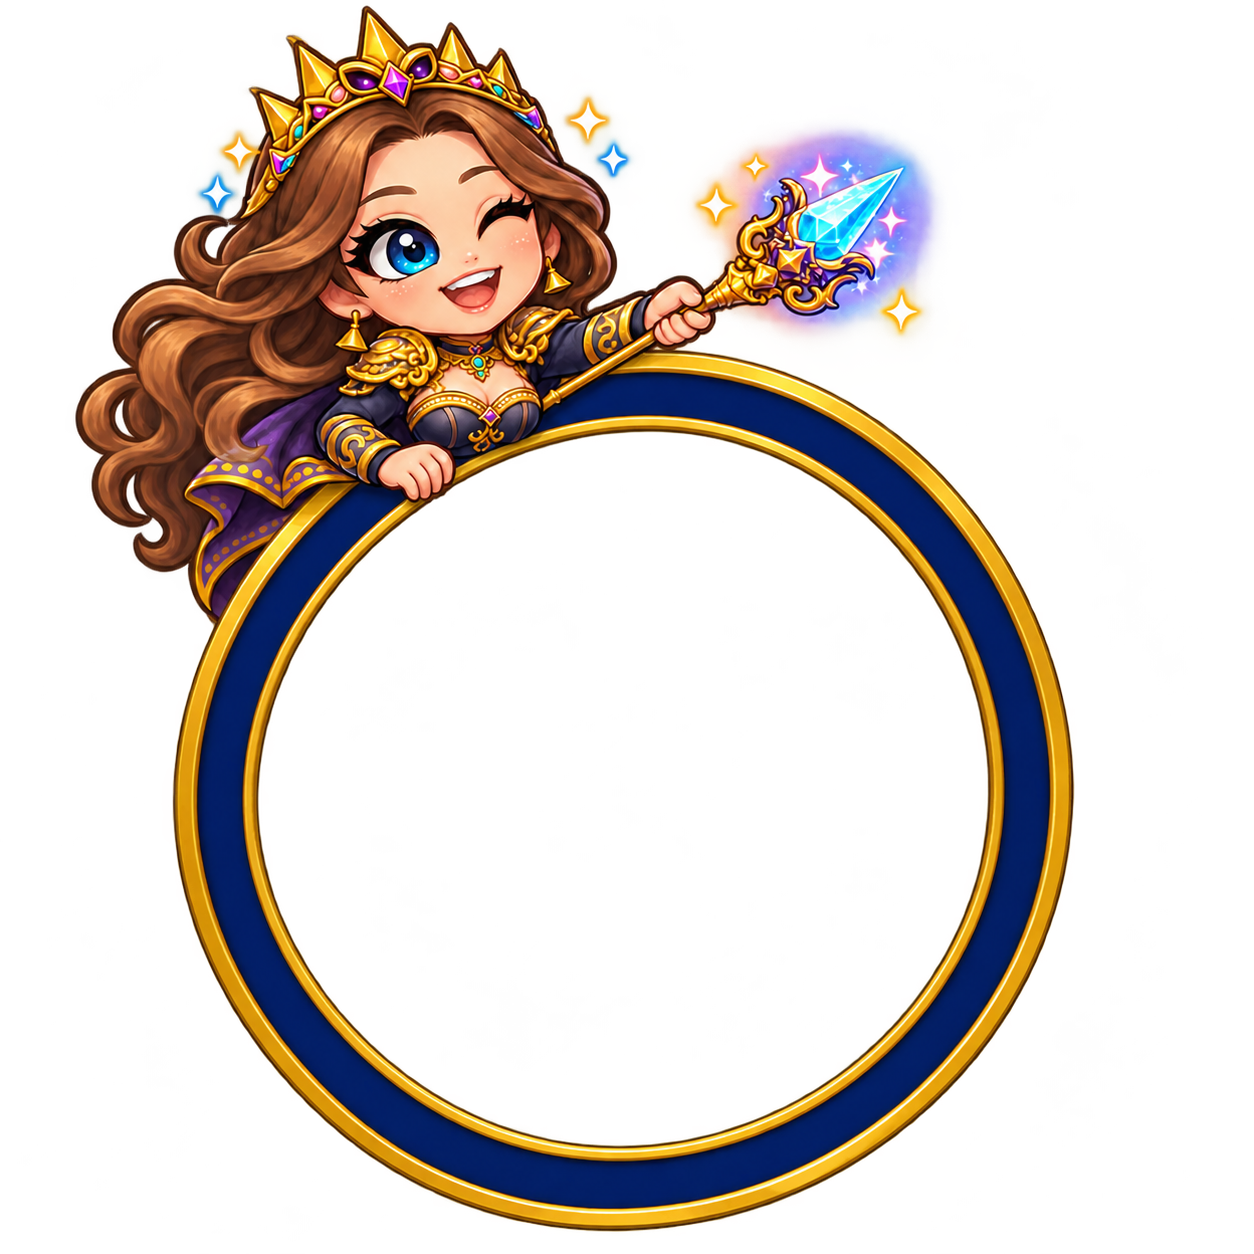
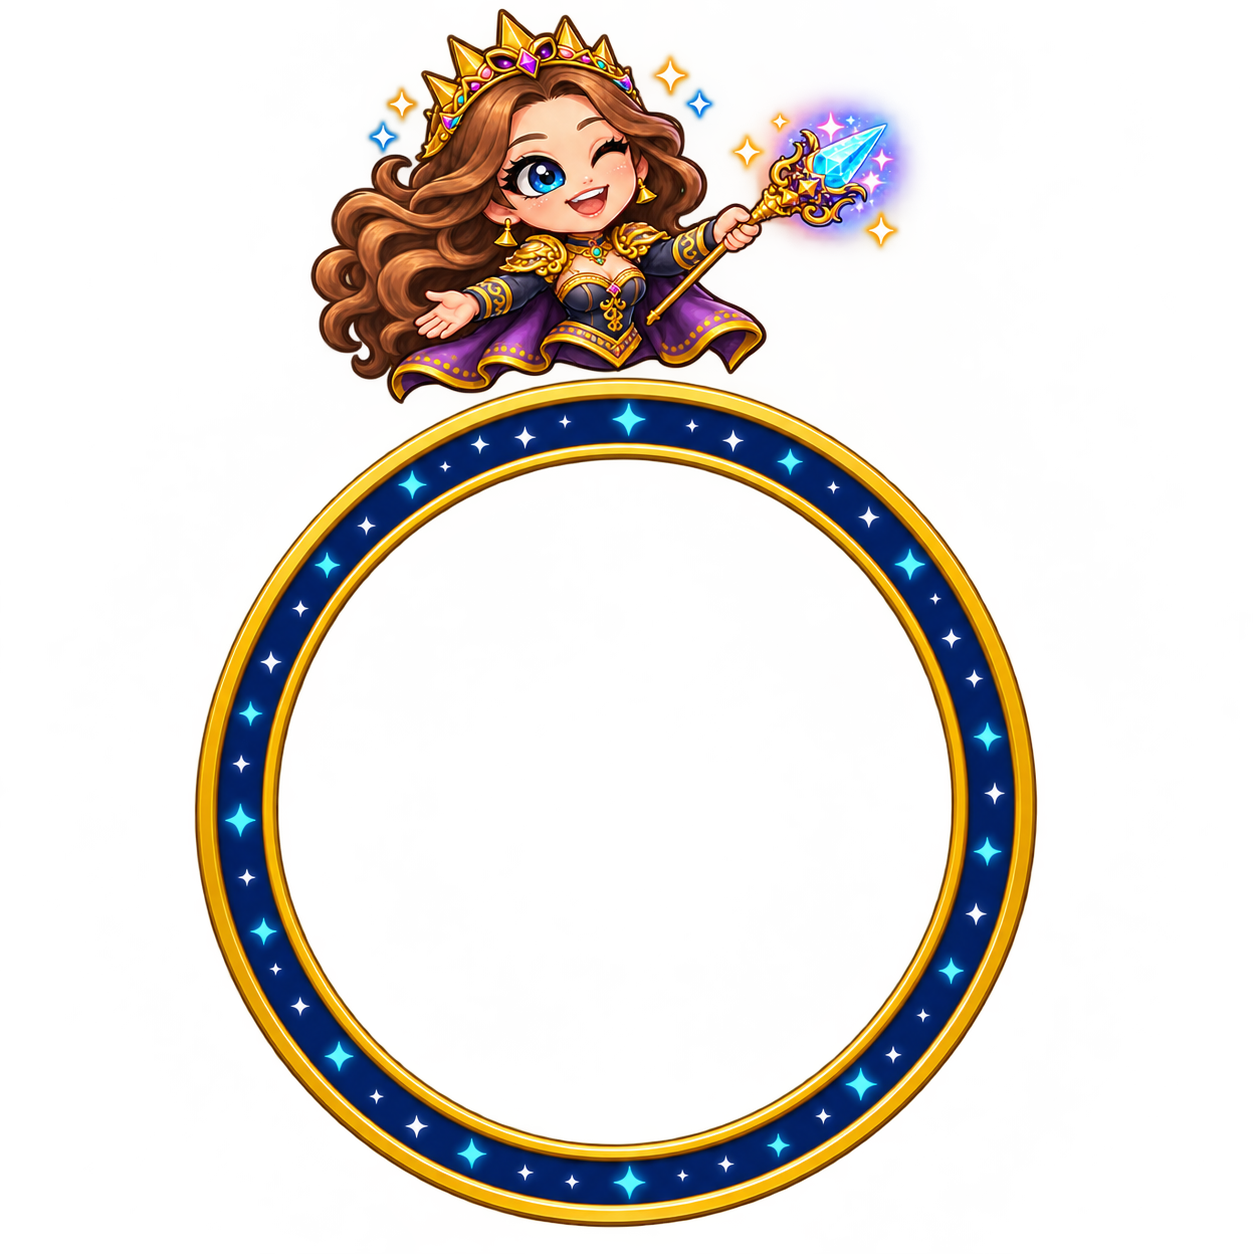
Restore starry Goddess ring and expose cancellable operation progress (0.5.1.426)

Changed region(s): [[0.0622, 0.0, 0.8708, 0.9952]]

diff --git a/src/WorkIndicator.cs b/src/WorkIndicator.cs
@@ -32,6 +32,20 @@ public sealed partial class Plugin
         }
         StopIndependentWalk(IndicatorStopReason);
     }
+    private void StopIndicatorLogin()
+    {
+        loginMenuReturn.Stop();
+        if(titleLoginProbe.Active)StopTitleLoginCheck(IndicatorStopReason);
+        CancelAssignedLogin(IndicatorStopReason);
+        characterSwitchUntil=default;characterSwitchTarget=null;
+        characterTravelStatus=IndicatorStopReason+" An already accepted login may still finish.";
+    }
+    private void StopIndicatorBring()
+    {
+        bringTrip=null;StopIndicatorLogin();StopIndicatorTravel();
+        try{Pi.GetIpcSubscriber<object>("Lifestream.Abort").InvokeAction();}catch{}
+        bringMessage=IndicatorStopReason;
+    }
     private IndicatorWork? CurrentIndicatorWork()
     {
         if(gardenTendRoute!=null||gardenCareRun?.Running==true||gardenAutoPlantPlan!=null||gardenHousePlant!=null||gardenHouseHarvest!=null){
@@ -42,21 +56,30 @@ public sealed partial class Plugin
         if(deliveryRun.Length>0&&(deliveryReturning||delivery is {Paused:false,Stopped:false}&&delivery.Status is not ("paused" or "complete" or "stopped")))
             return new("Delivery",deliveryNotice,"…",StopIndicatorDelivery);
         if(eventAccountActive)return new("Adventure",eventAccountStatus,$"{eventAccountCompleted}/{eventAccountCharacters.Length}",()=>StopEventAccount(IndicatorStopReason));
+        if(questChainActive)return new("Quest routine",questChainStatus,"…",()=>StopQuestChain(IndicatorStopReason));
         if(nativeEventActive)return new("Event quest",questToolsStatus,"…",()=>StopNativeEventQuest(IndicatorStopReason));
         if(independentQuestId!=0&&!independentUserPaused)return new("Quest",questToolsStatus,"…",()=>StopIndependentQuest(IndicatorStopReason));
+        if(bringTrip!=null)return new("Bring character",bringMessage,"…",StopIndicatorBring);
         if(estateTrip!=null||estateHomeReturn!=null)return new("House travel",independentWalkStatus,"…",StopIndicatorTravel);
+        if(loginMenuReturn.Active||titleLoginProbe.Active||assignedLogin!=null||characterSwitchTarget!=null&&DateTimeOffset.UtcNow<characterSwitchUntil)
+            return new(loginMenuReturn.Active?"Returning to title":titleLoginProbe.Active?"Checking login":assignedLoginConfirmed?"Login queue":"Switching character",characterTravelStatus,"…",StopIndicatorLogin);
         if(shoppingTravel!=null||goSeeHomeTrip!=null||goSeeFriendTrip!=null)return new("Travel",independentWalkStatus,"…",StopIndicatorTravel);
+        if(gearRouting)return new("Gear storage",gearStatus,"…",()=>StopGearStorage(IndicatorStopReason));
+        if(armoireRunning)return new("Armoire",armoireStatus,"…",()=>StopArmoireOrganizer(IndicatorStopReason));
+        if(craftingWithdrawalPending)return new("Preparing withdrawal",retrievalError,"…",()=>CancelCraftingWithdrawal(IndicatorStopReason));
         if(organizeRunning)return new("Organizer",organizeStatus,"…",()=>StopOrganize(IndicatorStopReason));
         if(retrievalRun.Running)return new("Transfer",retrievalRun.Status,"…",()=>retrievalRun.Stop(IndicatorStopReason));
         if(chestRunning)return new("Company chest",chestStatus,"…",()=>StopChest(IndicatorStopReason));
-        if(retainerGilRunning)return new("Retainer gil",retainerGilStatus,"…",()=>StopRetainerGil(IndicatorStopReason));
+        if(retainerGilRunning)return new("Retainer gil",retainerGilStatus,$"{retainerGilIndex}/{retainerGilTargets.Length}",()=>StopRetainerGil(IndicatorStopReason));
         if(itemTrade.Running)return new("Item trade",itemTrade.Status,"…",()=>StopItemTrade(IndicatorStopReason));
         if(gilTrade.Running)return new("Gil trade",gilTrade.Status,"…",()=>StopGilTrade(IndicatorStopReason));
-        if(sellerRun.Running)return new("Seller",sellerNotice,"…",()=>sellerRun.Stop(IndicatorStopReason));
+        if(sellerRun.Running)return new(sellerRun.Paused?"Prices paused":sellerRun.Apply?"Updating prices":"Checking prices",
+            $"Retainer {sellerRun.RetainerIndex+1}/{sellerRun.RetainerCount} · {sellerRun.Status}",
+            sellerRun.ItemCount>0?$"{sellerRun.ItemIndex}/{sellerRun.ItemCount}":$"{sellerRun.RetainerIndex}/{sellerRun.RetainerCount}",()=>sellerRun.Stop(IndicatorStopReason));
         if(keyboundBuying)return new("Rewards",keyboundBuyStatus,"…",()=>StopKeyboundBuying(IndicatorStopReason));
         if(keyboundEnabled&&!keyboundStatus.StartsWith("Paused",StringComparison.OrdinalIgnoreCase))return new("Keybound",keyboundStatus,"…",()=>StopKeybound(IndicatorStopReason));
         if((FlightActive||independentSearch!=null||independentPath!=null||independentEntranceForward!=null)&&!independentUserPaused)
-            return new("Navigation",independentWalkStatus,"…",StopIndicatorTravel);
+            return new("Navigation",independentWalkStatus,independentPath!=null&&independentLastRoutePoints>1?$"{Math.Min(independentWaypoint,independentLastRoutePoints-1)}/{independentLastRoutePoints-1}":"…",StopIndicatorTravel);
         if(nativeFollowRequested&&followSession.Armed)return new("Following",followStatus,"…",()=>StopFollowThem(IndicatorStopReason));
         return null;
     }
@@ -75,7 +98,7 @@ public sealed partial class Plugin
         var work=CurrentIndicatorWork();
         if(!workIndicatorPreview&&(!config.WorkIndicatorEnabled||work==null)){workIndicatorDragging=false;return;}
         var preview=work==null&&workIndicatorPreview;
-        var viewport=ImGui.GetMainViewport();var size=Math.Clamp(config.WorkIndicatorSize,80,220);var bounds=new Vector2(size,size+25);
+        var viewport=ImGui.GetMainViewport();var size=Math.Clamp(config.WorkIndicatorSize,80,220);var bounds=new Vector2(size,size+45);
         var area=viewport.Size;var origin=viewport.Pos;
         var pos=new Vector2(config.WorkIndicatorX<0?(area.X-size)/2:config.WorkIndicatorX,config.WorkIndicatorY<0?35:config.WorkIndicatorY);
         pos=Vector2.Clamp(pos,Vector2.Zero,Vector2.Max(Vector2.Zero,area-bounds));
@@ -99,8 +122,8 @@ public sealed partial class Plugin
             }
             var draw=ImGui.GetWindowDrawList();var style=Math.Clamp(config.WorkIndicatorStyle,0,2);
             // Match the blue track in goddess-loading.png; its frame is slightly elliptical.
-            var center=top+(style==0?new Vector2(.4972f,.6319f):new Vector2(.515f,.63f))*size;
-            var radii=(style==0?new Vector2(.3216f,.3128f):new Vector2(.285f))*size;
+            var center=top+(style==0?new Vector2(.4908f,.6405f):new Vector2(.515f,.63f))*size;
+            var radii=(style==0?new Vector2(.3000f,.3033f):new Vector2(.285f))*size;
             var radius=MathF.Min(radii.X,radii.Y);
             if(style<2){
                 var file=style==0?"goddess-loading.png":"goddess-complete.png";
@@ -117,9 +140,6 @@ public sealed partial class Plugin
             var angle=time*2.7f;var pulse=.75f+.25f*MathF.Sin(time*3);
             for(var i=0;i<32;i++){
                 var a=angle+i*.045f;var b=a+.05f;var alpha=(i+1)/32f;
-                // Let the streak pass behind the hand/hair on the upper-left frame.
-                var phase=(a+.025f)%(2*MathF.PI);
-                if(style==0&&phase>3.65f&&phase<4.55f)continue;
                 var p=center+new Vector2(MathF.Cos(a),MathF.Sin(a))*radii;var q=center+new Vector2(MathF.Cos(b),MathF.Sin(b))*radii;
                 draw.AddLine(p,q,C(.15f,.65f,1,alpha*.35f),size*.045f);
                 draw.AddLine(p,q,C(.2f,.85f,1,alpha*pulse),size*.024f);
@@ -131,6 +151,12 @@ public sealed partial class Plugin
             var label=preview?"Preview":work?.Label??"";var labelSize=ImGui.CalcTextSize(label);
             var labelAt=top+new Vector2((size-labelSize.X)/2,size+3);
             draw.AddText(labelAt+Vector2.One,C(0,0,0,1),label);draw.AddText(labelAt,C(.8f,.92f,1,1),label);
+            var detail=preview?"Right-click to stop":work?.Detail??"";
+            var firstLine=detail.Split('\n')[0];
+            if(firstLine.Length>80)firstLine=firstLine[..80]+"…";
+            while(firstLine.Length>1&&ImGui.CalcTextSize(firstLine).X>size-4)firstLine=firstLine[..^2]+"…";
+            var detailAt=top+new Vector2((size-ImGui.CalcTextSize(firstLine).X)/2,size+22);
+            draw.AddText(detailAt+Vector2.One,C(0,0,0,1),firstLine);draw.AddText(detailAt,C(.75f,.85f,.95f,1),firstLine);
             if(hover&&!workIndicatorDragging){ImGui.BeginTooltip();ImGui.PushTextWrapPos(ImGui.GetFontSize()*24);ImGui.TextUnformatted(preview?"Position preview":work?.Detail??"");ImGui.TextUnformatted(preview?"Right-click: close preview":"Right-click: stop this routine");if(!config.WorkIndicatorLocked)ImGui.TextUnformatted("Left-drag: move");ImGui.PopTextWrapPos();ImGui.EndTooltip();}
         }
         ImGui.End();ImGui.PopStyleVar();

diff --git a/src/Plugin.cs b/src/Plugin.cs
@@ -1100,6 +1100,7 @@ public sealed partial class Plugin : IDalamudPlugin
             {
                 adventureCutsceneWindows.Draw();
                 DrawQuestCutsceneControls();
+                DrawWorkIndicator();
                 DrawPluginItemPopup();
             }
             return;

diff --git a/docs/goddess-loading-426.md b/docs/goddess-loading-426.md
@@ -1,0 +1,7 @@
+# Companion 0.5.1.426
+
+Restore the starry blue ring and move Goddess above its track, leaving the full animated orbit unobstructed. The loading indicator now includes standalone character switching, title/login checks, queued login, Bring character, quest chains, gear storage, armoire and pending crafting withdrawals. Existing travel, garden, trade, organizer and seller operations remain covered.
+
+Seller shows Checking prices / Updating prices with current-retainer listing progress. Navigation and retainer gil expose their existing counters. A second line shows the current operation status; hover reads the full status. During cutscenes the indicator remains available for cancellable work. Right-click invokes the owning routine stop handler; queued login cancellation stops automation without clicking the game queue. An already accepted action may finish.
+
+Validated by release regression suites and plugin build; in-game visual retest remains needed.
